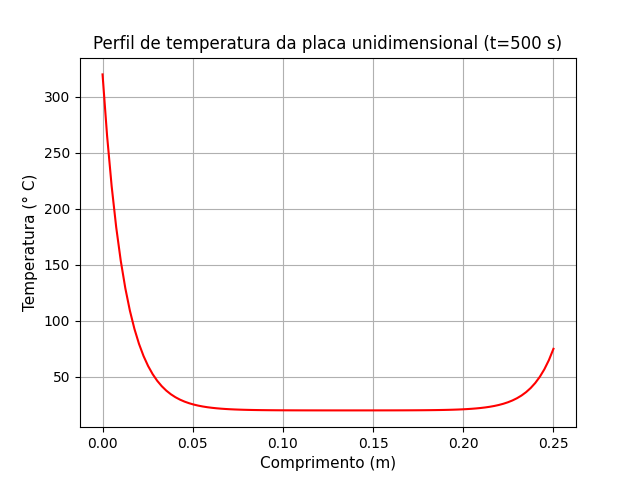
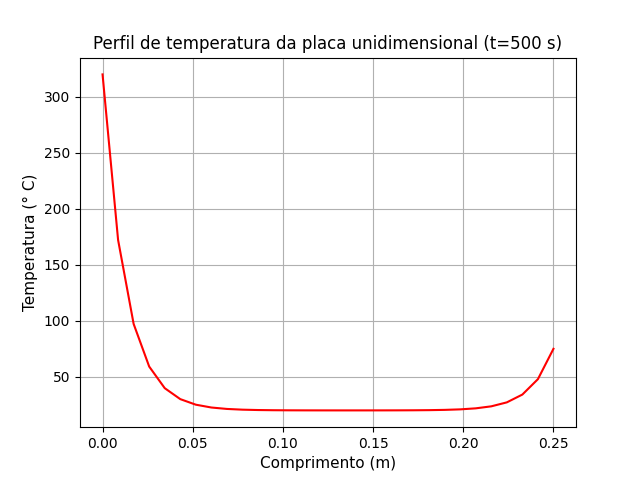
Correções

diff --git a/Trabalho 1/src/solver.py b/Trabalho 1/src/solver.py
@@ -9,7 +9,7 @@ T_amb = 20.0                        # temperatura do ambiente
 T_0 = 320.0                         # temperatura da aleta em x=0
 T_n = 75.0                          # temperatura da aleta em x=L
 L = 0.25                            # comprimento da aleta
-N = 100                             # número de nós em x
+N = 30                             # número de nós em x
 dx = L/(N-1)                        # comprimento do intervalo em x
 area = math.pi*D*D/4                # área da seção transversal da aleta
 peri = math.pi*D                    # perímetro da aleta
@@ -45,8 +45,9 @@ B[N-1] = T_n
 
 # Armazena em X a solução do sistema
 X = np.linalg.solve(A, B)
-
+print(X)
 Pos = np.linspace(0.0, L, N)        # Vetor das posições linearmente espaçado
+
 
 plt.plot(Pos, X, 'r')
 plt.title("Perfil de temperatura da placa unidimensional (t=500 s)")

diff --git a/Trabalho 1/src/utilities.h b/Trabalho 1/src/utilities.h
@@ -44,11 +44,11 @@ void GS_Solver(const std::vector<std::vector<T>>& A, std::vector<T>& B, std::vec
 
 	int counter {0};
 	bool teste = false;
-	const double eps {0.000001};
+	const double eps {0.0000001};
 
 	int m = A.size();
 	int n = A[0].size();
-	while(!teste && counter<40){
+	while(!teste && counter<200){
 		teste = true;
 		for (int i = 0; i < m; i++){
 			Y[i] = (B[i] / A[i][i]);
